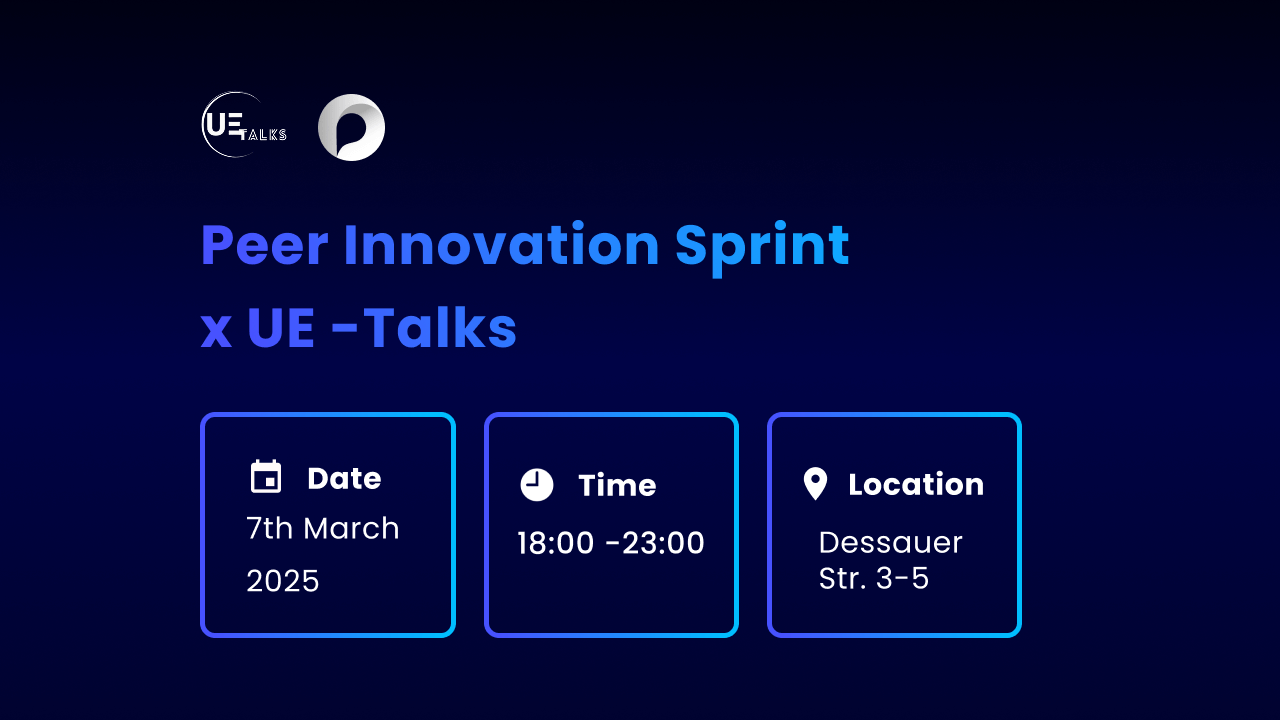
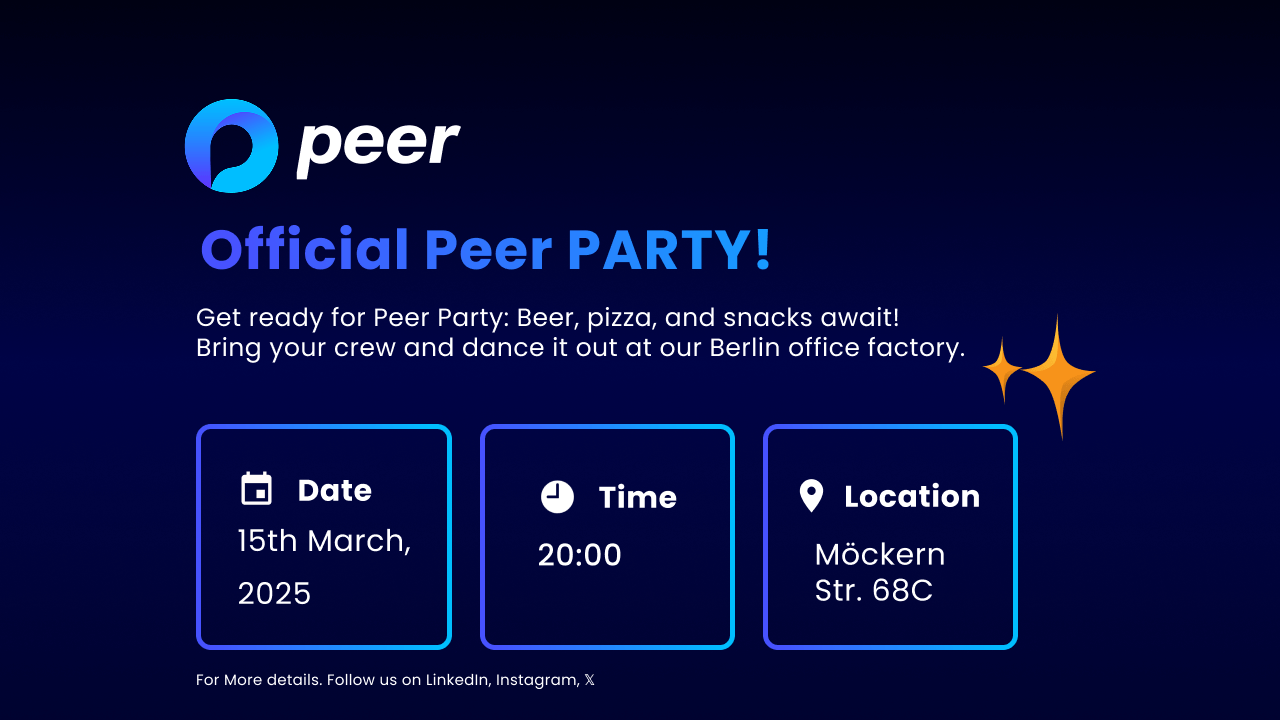
new event + animated beer, linked to Appstore

diff --git a/index.html b/index.html
@@ -114,7 +114,7 @@
       }
     </script>
     <link rel="icon" type="image/svg+xml" href="svg/logo_farbe.svg" />
-    <link rel="canonical" href="https://peerapp.de/preview.html" />
+    <link rel="canonical" href="https://peerapp.de/index.html" />
     <script src="kot.js" async></script>
     <title>PeerNetwork: Social Media Platform with Blockchain and Monetising</title>
   </head>
@@ -128,7 +128,7 @@
       <div>
         <nav>
           <ul>
-            <li><a href="preview.html" title="peernetwork for creators" class="active">for creators</a></li>
+            <li><a href="index.html" title="peernetwork for creators" class="active">for creators</a></li>
             <li><a href="advertisers.html" title="peernetwork for advertisers">for advertisers</a></li>
             <li><a href="about.html" title="about peernetwork">about us</a></li>
             <li><a href="events.html" title="peernetwork events">events</a></li>
@@ -179,8 +179,10 @@
         </div>
         <div class="apps">
           <div class="appstore platte">
-            <p>Download via Appstore</p>
-            <img src="svg/playstore.svg" alt="Peer App Playstore" width="64" height="64" loading="lazy" />
+            <a href="https://testflight.apple.com/join/xcCR5A67" title="Peer Web App">
+              <p>Download via Appstore</p>
+              <img src="svg/playstore.svg" alt="Peer App Playstore" width="64" height="64" loading="lazy" />
+            </a>
           </div>
           <div class="googlePlay platte">
             <p>Download via Google Play</p>
@@ -196,6 +198,8 @@
       </section>
       <section class="event">
         <img src="img/event.png" alt="Peer Event" width="1280" height="720" loading="lazy" />
+        <img src="img/beer1.png" alt="peerbeer" width="1280" height="720" loading="lazy" />
+        <img src="img/beer2.png" alt="peerbeer2" width="1280" height="720" loading="lazy" />
       </section>
       <section class="evolution">
         <img class="frog" src="svg/frog.svg" alt="frog" width="534" height="566" loading="lazy" />
@@ -241,7 +245,7 @@
         <h2>Contact us!</h2>
         <nav>
           <ul>
-            <li><a href="preview.html" title="peernetwork for creators" class="active">for creators</a></li>
+            <li><a href="index.html" title="peernetwork for creators" class="active">for creators</a></li>
             <li><a href="advertisers.html" title="peernetwork for advertisers">for advertisers</a></li>
             <li><a href="about.html" title="about peernetwork">about us</a></li>
             <li><a href="events.html" title="peernetwork events">events</a></li>

diff --git a/validator.html b/validator.html
@@ -10,7 +10,7 @@
     <h1>Peer Validator</h1>
     <section>
       <h2>lighthouse</h2>
-      <a href="https://googlechrome.github.io/lighthouse/viewer/?psiurl=https%3A%2F%2Fpeerapp.de%2Fpreview.html&strategy=desktop&category=performance&category=accessibility&category=best-practices&category=seo&category=pwa&utm_source=lh-chrome-ext#">lighthouse > Preview.html</a>
+      <a href="https://googlechrome.github.io/lighthouse/viewer/?psiurl=https%3A%2F%2Fpeerapp.de%2Findex.html&strategy=desktop&category=performance&category=accessibility&category=best-practices&category=seo&category=pwa&utm_source=lh-chrome-ext#">lighthouse > index.html</a>
       <br />
       <a href="https://googlechrome.github.io/lighthouse/viewer/?psiurl=https%3A%2F%2Fpeerapp.de%2Fadvertisers.html&strategy=desktop&category=performance&category=accessibility&category=best-practices&category=seo&category=pwa&utm_source=lh-chrome-ext#">lighthouse > advertisers.html</a>
       <br />
@@ -23,7 +23,7 @@
     </section>
     <section>
       <h2>html</h2>
-      <a href="https://validator.w3.org/nu/?showsource=yes&showoutline=yes&showimagereport=yes&doc=https%3A%2F%2Fpeerapp.de%2Fpreview.html">Nu Html Checker > preview.html</a>
+      <a href="https://validator.w3.org/nu/?showsource=yes&showoutline=yes&showimagereport=yes&doc=https%3A%2F%2Fpeerapp.de%2Findex.html">Nu Html Checker > index.html</a>
       <br />
       <a href="https://validator.w3.org/nu/?showsource=yes&showoutline=yes&showimagereport=yes&doc=https%3A%2F%2Fpeerapp.de%2Fadvertisers.html">Nu Html Checker > advertisers.html</a>
       <br />
@@ -36,7 +36,7 @@
     </section>
     <section>
       <h2>css</h2>
-      <a href="https://jigsaw.w3.org/css-validator/validator?uri=https%3A%2F%2Fpeerapp.de%2Fpreview.html&profile=css3svg&usermedium=all&warning=1&vextwarning=&lang=de">CSS Validator > preview.html</a>
+      <a href="https://jigsaw.w3.org/css-validator/validator?uri=https%3A%2F%2Fpeerapp.de%2Findex.html&profile=css3svg&usermedium=all&warning=1&vextwarning=&lang=de">CSS Validator > index.html</a>
       <br />
     </section>
     <section>

diff --git a/events.html b/events.html
@@ -128,7 +128,7 @@
       <div>
         <nav>
           <ul>
-            <li><a href="preview.html" title="peernetwork for creators">for creators</a></li>
+            <li><a href="index.html" title="peernetwork for creators">for creators</a></li>
             <li><a href="advertisers.html" title="peernetwork for advertisers">for advertisers</a></li>
             <li><a href="about.html" title="about peernetwork">about us</a></li>
             <li><a href="events.html" class="active" title="peernetwork events">events</a></li>
@@ -143,6 +143,8 @@
     <main>
       <section class="event">
         <img src="img/event.png" alt="Peer Event" width="1280" height="720" loading="lazy" />
+        <img src="img/beer1.png" alt="peerbeer" width="1280" height="720" loading="lazy" />
+        <img src="img/beer2.png" alt="peerbeer2" width="1280" height="720" loading="lazy" />
       </section>
       <section class="whyUs">
         <div class="info">
@@ -213,7 +215,7 @@
         <h2>Contact us!</h2>
         <nav>
           <ul>
-            <li><a href="preview.html" title="peernetwork for creators">for creators</a></li>
+            <li><a href="index.html" title="peernetwork for creators">for creators</a></li>
             <li><a href="advertisers.html" title="peernetwork for advertisers">for advertisers</a></li>
             <li><a href="about.html" title="about peernetwork">about us</a></li>
             <li><a href="events.html" class="active" title="peernetwork events">events</a></li>

diff --git a/advertisers.html b/advertisers.html
@@ -132,7 +132,7 @@
       <div>
         <nav>
           <ul>
-            <li><a href="preview.html" title="peernetwork for creators">for creators</a></li>
+            <li><a href="index.html" title="peernetwork for creators">for creators</a></li>
             <li><a href="advertisers.html" title="peernetwork for advertisers" class="active">for advertisers</a></li>
             <li><a href="about.html" title="about peernetwork">about us</a></li>
             <li><a href="events.html" title="peernetwork events">events</a></li>
@@ -175,7 +175,7 @@
         <h2>Contact us!</h2>
         <nav>
           <ul>
-            <li><a href="preview.html" title="peernetwork for creators">for creators</a></li>
+            <li><a href="index.html" title="peernetwork for creators">for creators</a></li>
             <li><a href="advertisers.html" title="peernetwork for advertisers" class="active">for advertisers</a></li>
             <li><a href="about.html" title="about peernetwork">about us</a></li>
             <li><a href="events.html" title="peernetwork events">events</a></li>

diff --git a/blog.html b/blog.html
@@ -129,7 +129,7 @@
       <div>
         <nav>
           <ul>
-            <li><a href="preview.html" title="peernetwork for creators">for creators</a></li>
+            <li><a href="index.html" title="peernetwork for creators">for creators</a></li>
             <li><a href="advertisers.html" title="peernetwork for advertisers">for advertisers</a></li>
             <li><a href="about.html" title="about peernetwork">about us</a></li>
             <li><a href="events.html" title="peernetwork events">events</a></li>
@@ -164,7 +164,7 @@
         <h2>Contact us!</h2>
         <nav>
           <ul>
-            <li><a href="preview.html" title="peernetwork for creators">for creators</a></li>
+            <li><a href="index.html" title="peernetwork for creators">for creators</a></li>
             <li><a href="advertisers.html" title="peernetwork for advertisers">for advertisers</a></li>
             <li><a href="about.html" title="about peernetwork">about us</a></li>
             <li><a href="events.html" title="peernetwork events">events</a></li>

diff --git a/css/index.css b/css/index.css
@@ -438,6 +438,9 @@ button {
 .webApp::after {
   background-color: #ed880e !important;
 }
+.event {
+  position: relative;
+}
 .event > img {
   margin-left: 5vw;
   margin-top: 1rem;
@@ -446,6 +449,36 @@ button {
   /* aspect-ratio: 1720/739; */
   background-repeat: no-repeat;
   background-size: contain;
+  border-radius: 2rem;
+}
+.event > img:nth-of-type(2) {
+  position: absolute;
+  top: 37%;
+  left: -4rem;
+  animation: tilt 5s ease-in-out infinite;
+  transform-origin: center;
+  width: 11rem;
+}
+.event > img:nth-of-type(3) {
+  position: absolute;
+  top: 50%;
+  right: -3rem;
+  animation: tilt 5s ease-in-out infinite;
+  animation-delay: 0s;
+  animation-delay: 1s;
+  transform-origin: center;
+  width: 18rem;
+}
+@keyframes tilt {
+  0% {
+    transform: rotateZ(-10deg);
+  }
+  50% {
+    transform: rotateZ(10deg);
+  }
+  100% {
+    transform: rotateZ(-10deg);
+  }
 }
 .evolution {
   position: relative;

diff --git a/about.html b/about.html
@@ -128,7 +128,7 @@
       <div>
         <nav>
           <ul>
-            <li><a href="preview.html">for creators</a></li>
+            <li><a href="index.html">for creators</a></li>
             <li><a href="advertisers.html">for advertisers</a></li>
             <li><a href="about.html" class="active">about us</a></li>
             <li><a href="events.html">events</a></li>
